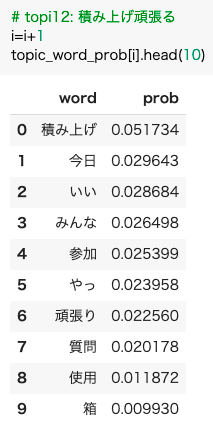
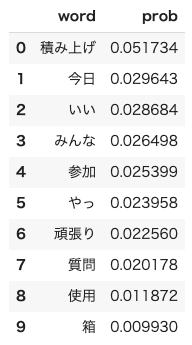
add tweet topic analysis

diff --git a/TweetTopicAnalysis/README.md b/TweetTopicAnalysis/README.md
@@ -97,7 +97,12 @@ test_corpus = [dictionary.doc2bow(text) for text in train_texts]
 
 - なお、LDAでは分類したトピックの意味合いを自分で考察する必要がありますので、以下のようにトピック毎に代表される単語を抽出してトピックの名称を与えています
 
-![topic_by_hour](http://drive.google.com/uc?export=view&id=1e5mfa0-JZRB0YUOftFSIKrPc_DX9XUNE)
+```python
+# topi12: 積み上げ頑張る
+i=12
+topic_word_prob[i].head(10)
+```
+![topic_by_hour](http://drive.google.com/uc?export=view&id=18dYJkyVFd_emtql6LmKYqGlr1OC1NEws)
 
 ### 参考文献
 - [Pythonで余計な文字列を削除する方法](https://hacknote.jp/archives/19937/)
@@ -110,6 +115,6 @@ test_corpus = [dictionary.doc2bow(text) for text in train_texts]
 - [Googleが公開した自然言語処理の最新技術、BERTとは何者なのか](https://ai-scholar.tech/articles/text-mining/bert-ai-93)
 - [BERTとは｜Googleが誇る自然言語処理モデルの特徴、仕組みを解説](https://ledge.ai/bert/)
 <!--stackedit_data:
-eyJoaXN0b3J5IjpbMjMxNDA3OTM0LDcwMDQyOTI5OSwtNTk0Nz
-c0OTYzLDczMDk5ODExNl19
+eyJoaXN0b3J5IjpbMTA5MjE3MjkxNiwyMzE0MDc5MzQsNzAwND
+I5Mjk5LC01OTQ3NzQ5NjMsNzMwOTk4MTE2XX0=
 -->
